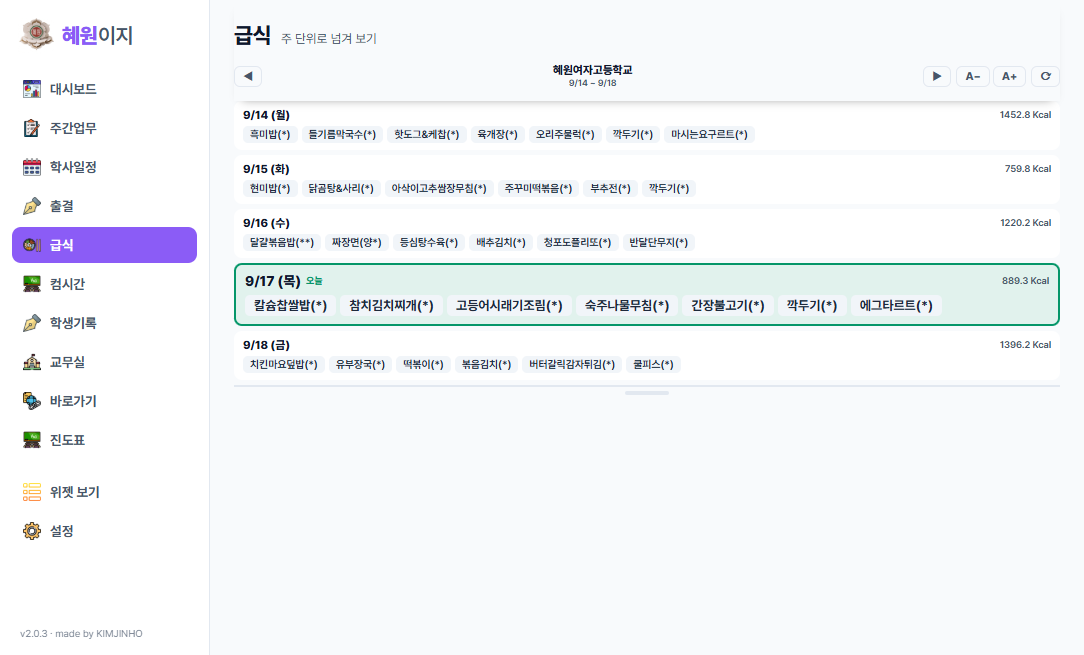
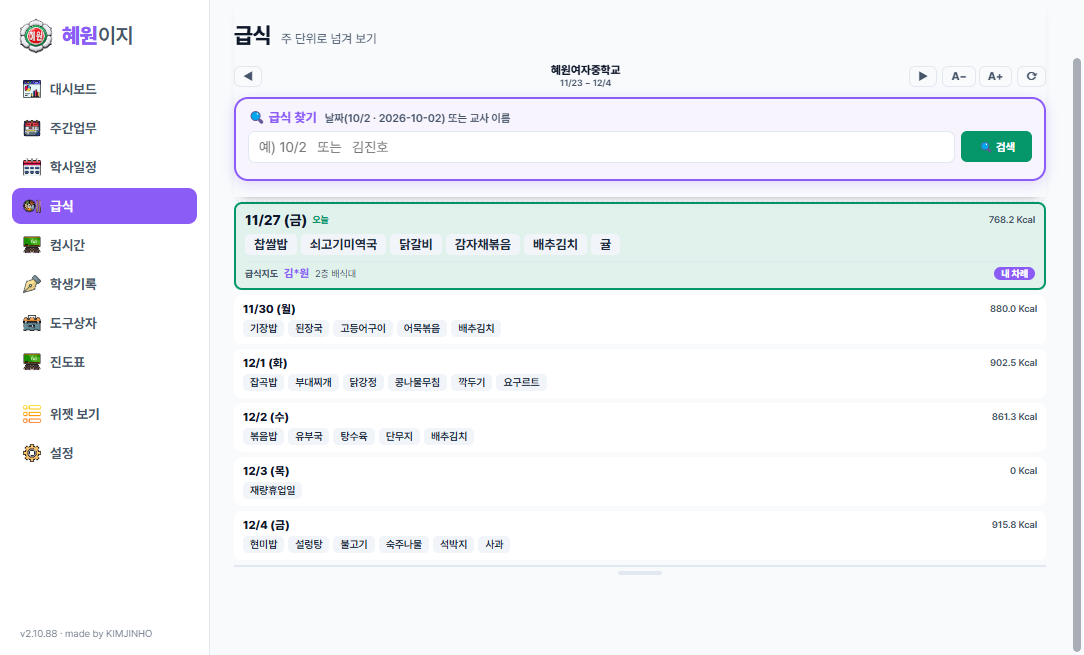
내려받기 사이트 갱신 — 코드 저장소 6bde3fd 의 docs/

diff --git a/docs/index.html b/docs/index.html
@@ -158,7 +158,7 @@
     <h1>혜원이지</h1>
     <span class="vbadge" id="vtop"><!--VER-->2.10.88<!--/VER--></span>
   </div>
-  <div class="sub">주간업무 · 시간표 · 학사일정 · 출결 · 급식 · 학생기록 — PC 는 바탕화면 한 창에서, 폰은 홈 화면 앱으로</div>
+  <div class="sub">주간업무 · 시간표 · 학사일정 · 급식 · 학생기록 · 도구상자 — PC 는 바탕화면 한 창에서, 폰은 홈 화면 앱으로</div>
 
   <div class="vtabs" role="tablist" aria-label="버전 고르기">
     <button type="button" role="tab" id="tab-pc" class="vtab" aria-selected="true" aria-controls="pane-pc" data-v="pc">🖥 PC 버전 <small>Windows</small></button>
@@ -213,8 +213,7 @@
       <li>바탕화면에 작은 창이 뜹니다. 제목 줄을 잡아 옮기세요</li>
       <li>톱니바퀴 <b>⚙</b> 를 눌러 <b>학교</b>와 <b>선생님 이름</b>을 고릅니다</li>
       <li>그러면 시간표·급식·주간업무가 저절로 채워집니다</li>
-      <li><b>출결</b>을 쓰시려면 «출결» 탭에서 <b>연결 코드</b>(김진호에게 메신저로 받으세요)를 붙여 넣고,
-          <b>나는 누구</b>를 고릅니다. 학년부장·교무부장·교장·교감 선생님은 확인번호도 넣습니다</li>
+      <li>필요하면 설정에서 <b>수업 알림</b>(수업 시작 전에 알려 주기)과 <b>급식지도 순서표</b>(내 차례 미리 보기)도 켭니다</li>
     </ol>
     <p>창을 닫아도 꺼지지 않고 <b>작업표시줄 오른쪽 아래</b>에 남아 있습니다.
        제목 줄의 <b>⤢</b> 를 누르면 <b>넓은 창</b>으로 크게 볼 수 있습니다.</p>
@@ -297,7 +296,7 @@
     <div class="tabs">
       <div class="tab">
         <h3><span class="kbd">1</span> 대시보드</h3>
-        <p>오늘 볼 것을 한눈에. 자주 쓰는 화면은 ☆ 를 눌러 맨 위로 모아 둡니다.</p>
+        <p>오늘 볼 것을 한눈에. «✎ 편집하기» 로 카드 차례와 크기를 바꾸고, 자주 쓰는 화면은 ☆ 를 눌러 맨 위로 모아 둡니다.</p>
         <a href="img/tab-home.png" target="_blank" rel="noopener"><img class="shot" src="img/tab-home.png" loading="lazy" alt="대시보드 화면"></a>
       </div>
       <div class="tab">
@@ -311,33 +310,27 @@
         <a href="img/tab-cal.png" target="_blank" rel="noopener"><img class="shot" src="img/tab-cal.png" loading="lazy" alt="학사일정 화면"></a>
       </div>
       <div class="tab">
-        <h3><span class="kbd">4</span> 출결</h3>
-        <p>학년 출결목록 시트를 앱에서. 담임은 적기·고치기·월별 인쇄, 학년부장은 수정요청, 관리자는 보기.
-           «점검하기» 로 서류·출석부·NEIS 를 체크합니다.</p>
-        <a href="img/tab-att.png" target="_blank" rel="noopener"><img class="shot" src="img/tab-att.png" loading="lazy" alt="출결 화면"></a>
-      </div>
-      <div class="tab">
-        <h3><span class="kbd">5</span> 급식</h3>
-        <p>나이스에서 가져온 식단을 주 단위로 넘겨 봅니다.</p>
+        <h3><span class="kbd">4</span> 급식</h3>
+        <p>나이스에서 가져온 식단을 주 단위로 넘겨 봅니다. 오늘이 강조되고, 날짜나 선생님 이름으로 찾을 수 있습니다.</p>
         <a href="img/tab-meal.png" target="_blank" rel="noopener"><img class="shot" src="img/tab-meal.png" loading="lazy" alt="급식 화면"></a>
       </div>
       <div class="tab">
-        <h3><span class="kbd">6</span> 컴시간</h3>
+        <h3><span class="kbd">5</span> 컴시간</h3>
         <p>내 시간표와 학급 시간표. 이번 주 바뀐 수업(보강·교체)까지 반영됩니다.</p>
         <a href="img/tab-comci.png" target="_blank" rel="noopener"><img class="shot" src="img/tab-comci.png" loading="lazy" alt="컴시간 화면"></a>
       </div>
       <div class="tab">
-        <h3><span class="kbd">7</span> 학생기록</h3>
+        <h3><span class="kbd">6</span> 학생기록</h3>
         <p>학급 → 학생 → 분류로 적어 두고, 나중에 통계로 모아 봅니다.</p>
         <a href="img/tab-rec.png" target="_blank" rel="noopener"><img class="shot" src="img/tab-rec.png" loading="lazy" alt="학생기록 화면"></a>
       </div>
       <div class="tab">
-        <h3><span class="kbd">8</span> 바로가기</h3>
-        <p>자주 가는 곳을 담아 두고 한 번에. 나눠 드린 웹앱도 저절로 목록에 뜹니다.</p>
-        <a href="img/tab-link.png" target="_blank" rel="noopener"><img class="shot" src="img/tab-link.png" loading="lazy" alt="바로가기 화면"></a>
+        <h3><span class="kbd">7</span> 도구상자</h3>
+        <p>PDF 편집기·사진 줄이기·한글 용량 줄이기 같은 도구와, 내 바로가기·학교에서 함께 쓰는 앱을 한곳에. 나눠 드린 웹앱은 저절로 목록에 뜹니다.</p>
+        <a href="img/tab-link.png" target="_blank" rel="noopener"><img class="shot" src="img/tab-link.png" loading="lazy" alt="도구상자 화면"></a>
       </div>
       <div class="tab">
-        <h3>진도표</h3>
+        <h3><span class="kbd">8</span> 진도표</h3>
         <p>학기 전체를 교시 × 요일 격자로. 칸을 눌러 그 자리에서 적습니다.</p>
         <a href="img/tab-grid.png" target="_blank" rel="noopener"><img class="shot" src="img/tab-grid.png" loading="lazy" alt="진도표 화면"></a>
       </div>
@@ -348,19 +341,19 @@
   <div class="card">
     <h2>최근 새로워진 것</h2>
     <ul class="newlist">
-      <li><span class="tag">NEW</span><b>«혜원이지 폰» 타일</b> — 바로가기 화면 맨 앞. 누르면 폰 설치용 QR 이 크게 뜹니다</li>
-      <li><span class="tag">NEW</span><b>런처보드 정리</b> — 카드를 끌어서 «함께 쓰는 중» 과 «나만 보기» 사이로 옮길 수 있습니다</li>
+      <li><span class="tag">NEW</span><b>한글 용량 줄이기</b> — 한글(HWP·HWPX) 파일 안의 그림만 줄여 5MB 미만으로. 공문서에 첨부할 때 쓰세요. 원본은 그대로 둡니다</li>
+      <li><span class="tag">NEW</span><b>«바로가기» 가 «도구상자» 로</b> — 도구, 내 바로가기, 학교에서 함께 쓰는 앱이 한 화면에. 학교 바로가기는 청록 타일로 구분되고, 끌어서 차례를 바꿀 수 있습니다</li>
+      <li><span class="tag">NEW</span><b>PDF 편집기에 끌어다 놓기</b> — PDF 파일을 창 어디든 끌어다 놓으면 지금 하던 작업에 바로 들어갑니다</li>
+      <li><b>바깥 주소는 크롬으로</b> — 앱에서 누른 웹 주소는 늘 크롬으로 열립니다(크롬이 없으면 엣지)</li>
       <li><b>학사일정·급식은 «오늘» 기준</b> — 어제까지는 «지난 일정·지난 급식» 한 줄로 접혀 있고, 오늘이 눈에 띄게 강조됩니다. 필요하면 펼쳐 봅니다</li>
-      <li><b>창 옮기기</b> — 맨 위 머리 줄의 단추가 아닌 곳을 잡고 끌면 창이 부드럽게 옮겨집니다</li>
-      <li><b>도구상자</b> — PDF 편집기 · 사진 줄이기 · 랜덤 뽑기·모둠 편성 · QR 생성기 · 수업 타이머 · 계산기 · 등급별 인원 예측</li>
+      <li><b>도구상자에 든 것</b> — PDF 편집기 · 사진 줄이기 · 한글 용량 줄이기 · 랜덤 뽑기·모둠 편성 · QR 생성기 · 수업 타이머 · 계산기 · 등급별 인원 예측</li>
+      <li><b>출결 탭은 뺐습니다</b> — 혜원이지에는 이제 출결 화면이 없습니다(PC·폰 모두)</li>
     </ul>
   </div>
 
   <div class="card">
     <h2>2.0 에서 새로워진 것</h2>
     <ul>
-      <li><b>출결</b> — 담임 선생님은 우리 반 출결을 앱에서 적고 고치고 월별로 인쇄합니다.
-          학년부장님은 학년 모든 반을, 교장·교감·교무부장님은 전 학년을 볼 수 있습니다</li>
       <li><b>이름이 다시 «혜원이지»</b> 로 — 설정·자료는 그대로 이어집니다</li>
       <li><b>인쇄가 안 되던 문제</b> — 학교 PC 에서 인쇄 창이 안 뜨면 브라우저로 넘어가 거기서 인쇄합니다</li>
       <li><b>크게·작게</b> — A− A+ 를 누르면 메뉴 단추까지 함께 커지고, 화면 아래 손잡이를 끌면 그 탭이 통째로 커집니다</li>
@@ -447,30 +440,40 @@
   <div class="card">
     <h2>처음 열면</h2>
     <ol>
-      <li><b>암호 입력</b> — 처음 한 번 암호를 넣으라는 화면이 나옵니다. 암호는 <b>김진호 선생님께 메신저로 받으세요</b>. 앱을 열 때마다 넣고 들어옵니다.</li>
+      <li><b>학교 암호</b> — 처음 한 번만 넣습니다. 암호는 <b>김진호 선생님께 메신저로 받으세요</b>.</li>
+      <li><b>숫자 6자리 정하기</b> — 그 뒤로는 앱을 열 때 이 숫자(또는 지문)로 엽니다. 설정 › 잠금에서 지문을 켜거나 숫자를 바꿉니다.</li>
       <li><b>내 이름 고르기</b> — «시간표» 화면에서 내 이름을 한 번 고르면 오늘 수업과 내 시간표가 보입니다.</li>
+      <li><b>구글 로그인</b>(쓰고 싶을 때만) — 설정 › 구글 계정으로 로그인하면 PC 혜원이지 진도표에 적은 <b>수업 메모</b>가 폰 «오늘 수업» 에도 보이고, 폰에서도 적을 수 있습니다.</li>
     </ol>
+    <div class="pshots" style="grid-template-columns:minmax(0,260px);justify-content:center">
+      <figure><a href="img/phone-lock.png" target="_blank" rel="noopener"><img src="img/phone-lock.png" alt="숫자 6자리 정하기 화면" loading="lazy"></a><figcaption>처음 열면 나오는 <b>숫자 6자리 정하기</b> 화면</figcaption></figure>
+    </div>
   </div>
 
   <div class="card" id="phonetour">
     <h2>화면 둘러보기</h2>
     <p>폰 화면입니다. 그림 속 이름·자료는 <b>보여 드리려고 지어낸 것</b>입니다. 그림을 누르면 크게 보입니다.</p>
     <div class="pshots">
-      <figure><a href="img/phone-home.png" target="_blank" rel="noopener"><img src="img/phone-home.png" alt="홈 화면" loading="lazy"></a><figcaption><b>홈</b> — 오늘 수업·급식·학사일정을 한눈에. 처음에는 «시간표» 에서 <b>내 이름</b>을 한 번 골라 주세요</figcaption></figure>
-      <figure><a href="img/phone-tt.png" target="_blank" rel="noopener"><img src="img/phone-tt.png" alt="시간표 화면" loading="lazy"></a><figcaption><b>시간표</b> — 내 시간표와 학급 시간표. 오늘 요일 칸이 분홍으로 보입니다</figcaption></figure>
+      <figure><a href="img/phone-home.png" target="_blank" rel="noopener"><img src="img/phone-home.png" alt="홈 화면" loading="lazy"></a><figcaption><b>홈</b> — 오늘 수업(지금·다음 표시)·오늘 급식·앞으로 7일·주간업무를 펼쳐서 한눈에. 처음에는 «시간표» 에서 <b>내 이름</b>을 한 번 골라 주세요</figcaption></figure>
+      <figure><a href="img/phone-tt.png" target="_blank" rel="noopener"><img src="img/phone-tt.png" alt="시간표 화면" loading="lazy"></a><figcaption><b>시간표</b> — 내 시간표와 학급 시간표. 오늘 요일 칸이 분홍으로, 이번 주 바뀐 수업(교체·보강)은 주황으로 보입니다</figcaption></figure>
       <figure><a href="img/phone-meal.png" target="_blank" rel="noopener"><img src="img/phone-meal.png" alt="급식 화면" loading="lazy"></a><figcaption><b>급식</b> — 오늘이 강조됩니다. 날짜나 교사 이름으로 찾고, 주를 넘겨 봅니다</figcaption></figure>
       <figure><a href="img/phone-link.png" target="_blank" rel="noopener"><img src="img/phone-link.png" alt="바로가기 화면" loading="lazy"></a><figcaption><b>바로가기</b> — 학교에서 함께 쓰는 앱 모음</figcaption></figure>
-      <figure><a href="img/phone-more.png" target="_blank" rel="noopener"><img src="img/phone-more.png" alt="더보기 창" loading="lazy"></a><figcaption><b>더보기</b> — 아래 메뉴 오른쪽 끝을 누르면 학사일정·주간업무·문자 문구·바로가기·설정이 나옵니다</figcaption></figure>
+      <figure><a href="img/phone-more.png" target="_blank" rel="noopener"><img src="img/phone-more.png" alt="더보기 창" loading="lazy"></a><figcaption><b>더보기</b> — 아래 메뉴 오른쪽 끝을 누르면 주간업무·문자 문구·바로가기·설정이 나옵니다</figcaption></figure>
       <figure><a href="img/phone-menuedit.png" target="_blank" rel="noopener"><img src="img/phone-menuedit.png" alt="하단 메뉴 편집" loading="lazy"></a><figcaption><b>하단 메뉴 편집</b> — 더보기 → «하단 메뉴 편집» (또는 메뉴를 꾹 누르기). 끌어 놓거나 하나를 누르고 바꿀 칸을 눌러 자주 쓰는 화면을 아래에 둡니다</figcaption></figure>
     </div>
-    <p>이 밖에 <b>출결</b>(담임 선생님이 우리 반 출결 보기·적기), <b>문자 문구</b>, <b>학사일정</b>, <b>주간업무</b>, <b>설정</b> 화면이 있습니다.</p>
+    <p>이 밖에 <b>학사일정</b>(학년 일정도 함께), <b>주간업무</b>(붙은 그림까지 원본 그대로), <b>문자 문구</b>, <b>수업 메모</b>, <b>설정</b> 화면이 있습니다.</p>
   </div>
 
   <div class="card">
     <h2>최근 새로워진 것 (폰)</h2>
     <ul class="newlist">
-      <li><span class="tag">NEW</span><b>아래 메뉴가 «4칸 + 더보기»</b> — 홈·시간표·출결·급식 네 칸과 더보기. 내가 자주 쓰는 화면으로 바꿀 수 있습니다</li>
-      <li><b>출결 입력</b> — 지각·조퇴·결과는 해당 교시를 고르고, 신청 사유는 예시 문구를 눌러 바로 넣습니다</li>
+      <li><span class="tag">NEW</span><b>수업 메모</b> — 구글로 로그인하면 PC 진도표의 수업 메모가 홈 «오늘 수업» 에 보이고, › 를 눌러 어제·오늘·내일 교시마다 적습니다</li>
+      <li><span class="tag">NEW</span><b>앱 잠금</b> — 학교 암호는 처음 한 번만, 그 뒤로는 숫자 6자리나 지문으로 엽니다</li>
+      <li><span class="tag">NEW</span><b>바뀐 수업 강조</b> — 이번 주 교체·보강 수업을 주황으로, 바뀐 과목·선생님을 한 줄로 보여 줍니다</li>
+      <li><b>홈을 펼쳐서</b> — 오늘 수업·급식·앞으로 7일·주간업무가 카드로 바로 보입니다</li>
+      <li><b>아래 메뉴 «4칸 + 더보기»</b> — 기본은 홈·시간표·급식·학사일정. 꾹 누르거나 «하단 메뉴 편집» 으로 바꿉니다</li>
+      <li><b>설정 정리</b> — 모양·내 이름·자료·잠금·암호를 눌러 펼치는 타일로</li>
+      <li><b>출결은 뺐습니다</b> — 폰에서도 출결 화면이 없어졌습니다</li>
     </ul>
   </div>
   </div>
